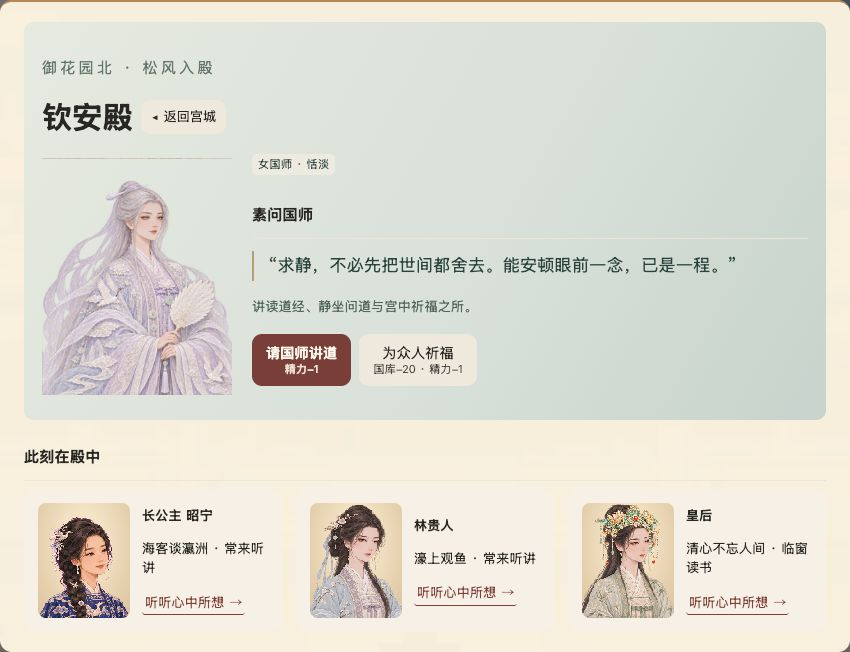
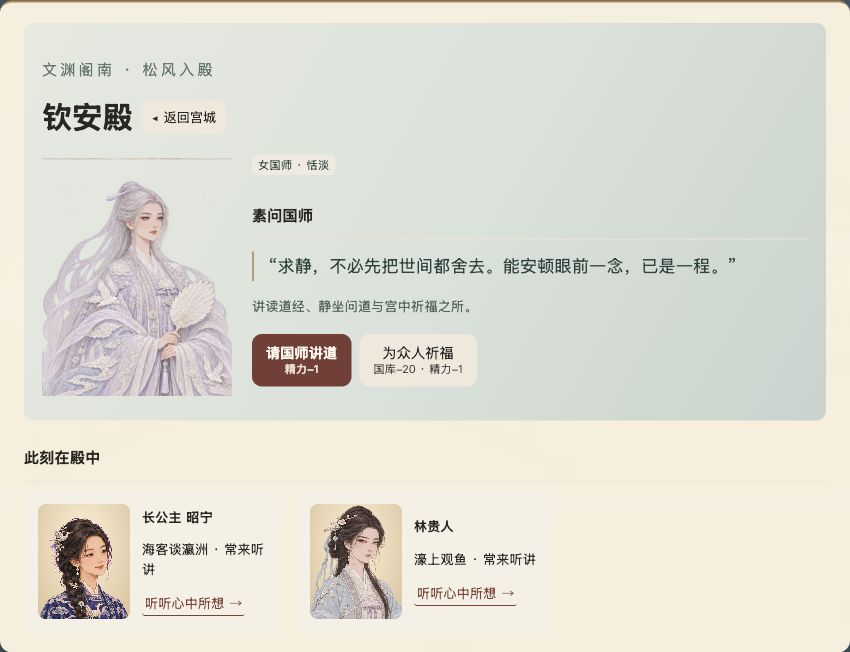
Move Qinan Hall below Wenyuan Pavilion on the palace map

diff --git a/js/dao-hall.js b/js/dao-hall.js
@@ -73,7 +73,7 @@ function daoConversation(p){
 A.daoTalk=function(id){if(modalOpen)return;const p=byId(id)||kidById(id);pushEv(daoConversation(p));};
 function viewDaoHall(){
   const master=daoMaster(),visitors=daoVisitors(),promises=S.children.filter(k=>daoEligible(k)&&k.daoPractice?.seaWish?.status==='promised');
-  return `<section class="dao-hall"><header><p>御花园北 · 松风入殿</p><h2>钦安殿${backBtn}</h2></header><div class="dao-master">${porImg(master,190)}<div><span class="tag">${master.gender}国师 · ${master.temper}</span><h3>${master.name}国师</h3><blockquote>“${master.line}”</blockquote><p class="hint">讲读道经、静坐问道与宫中祈福之所。</p><div class="acts"><button class="btn gold" onclick="A.daoTeach()">请国师讲道<small>精力−1</small></button><button class="btn" onclick="A.daoRite()">为众人祈福<small>国库−20 · 精力−1</small></button></div></div></div></section>
+  return `<section class="dao-hall"><header><p>文渊阁南 · 松风入殿</p><h2>钦安殿${backBtn}</h2></header><div class="dao-master">${porImg(master,190)}<div><span class="tag">${master.gender}国师 · ${master.temper}</span><h3>${master.name}国师</h3><blockquote>“${master.line}”</blockquote><p class="hint">讲读道经、静坐问道与宫中祈福之所。</p><div class="acts"><button class="btn gold" onclick="A.daoTeach()">请国师讲道<small>精力−1</small></button><button class="btn" onclick="A.daoRite()">为众人祈福<small>国库−20 · 精力−1</small></button></div></div></div></section>
     ${promises.map(k=>`<div class="card"><div class="grow"><strong>与${esc(k.name)}的东海之约</strong><p>已经答应带孩子去看海，可沿岸观潮、访舟人。</p><button class="btn jade" onclick="A.daoSea(${k.id})">相携赴东海<small>国库−50 · 精力−2 · 每年一次</small></button></div></div>`).join('')}
     <h3>此刻在殿中</h3>${visitors.length?`<div class="grid">${visitors.map(p=>`<button class="card portrait-card" onclick="A.daoTalk(${p.id})">${porImg(p,92)}<div class="grow"><strong>${esc(porName(p))}</strong><p>${esc(daoReading(p).title)} · ${p.daoPractice?.visits>=6?'常来听讲':'临窗读书'}</p><span class="person-link">听听心中所想 →</span></div></button>`).join('')}</div>`:'<p class="hint">此刻只有国师在整理经卷。不同性情的人会在往后的日子来访。</p>'}`;
 }

diff --git a/js/map.js b/js/map.js
@@ -6,7 +6,7 @@ const PLACES=[
  {id:'qq',n:'乾清宫',r:[80,68,40,11],d:[100,82],k:'view',v:'home',sc:'court'},
  {id:'kn',n:'坤宁宫',r:[82,50,36,11],d:[100,64],k:'palace',p:'坤宁宫',sc:'harem'},
  {id:'cj',n:'宸极殿',r:[78,86,44,12],d:[100,100],k:'place',sc:'court'},
- {id:'qa',n:'钦安殿',r:[91,12,18,11],d:[100,24],k:'place',sc:'garden'},
+ {id:'qa',n:'钦安殿',r:[164,33,26,10],d:[177,46],k:'place',sc:'garden'},
  {id:'yh',n:'御花园',r:[58,12,84,30],d:[100,46],k:'place',sc:'garden'},
  {id:'sw',n:'神武门',r:[90,2,20,6],d:[100,9],k:'view',v:'out',sc:'city'},
  {id:'wm',n:'午门',r:[90,119,20,7],d:[100,117],k:'view',v:'out',sc:'court'},
@@ -34,7 +34,7 @@ function npcHome(c){const pl=PLACES.find(p=>p.k==='palace'&&p.p===c.palace);retu
 function npcSync(){const ids=new Set();alive().filter(c=>!c.maid&&(inPalace(c)||c.cold)).forEach(c=>{ids.add(c.id);if(!NPC.has(c.id)){const h=c.cold?[23,46]:npcHome(c);NPC.set(c.id,{x:h[0],y:h[1],path:[],wait:ri(5,60),ox:ri(-3,3),where:'home'})}});[...NPC.keys()].forEach(id=>{if(!ids.has(id))NPC.delete(id)})}
 function npcRoutine(c,roll) {
   const home=npcHome(c);
-  if(daoVisitors().includes(c))return {where:'dao',dest:[100,24]};
+  if(daoVisitors().includes(c))return {where:'dao',dest:PLACES.find(p=>p.id==='qa').d};
   const hobby=consortHobby(c);
   const gardenBias=['活泼','淡泊'].includes(c.trait)||c.t2==='爱猫'||CONSORT_HOBBIES[hobby].place==='御花园';
   const studyBias=['才女','好学'].includes(c.trait)||c.t2==='好读史'||hobby==='读书';
@@ -64,7 +64,7 @@ function npcStep(){npcSync();for(const [id,n] of NPC){const c=byId(id);if(!c)con
 
 function npcRoutineText(c,n) {
   if(!n)return '在宫道上停下脚步，向你行了一礼';
-  if(n.where==='dao')return n.path.length?'沿花园小径，往钦安殿听讲去':'在钦安殿廊下翻阅经卷';
+  if(n.where==='dao')return n.path.length?'沿东侧宫道，往钦安殿听讲去':'在钦安殿廊下翻阅经卷';
   if(n.where==='library')return n.path.length?'抱着旧抄本，正往文渊阁去':'在文渊阁门前等宫人取来借阅的书';
   if(n.where==='visit'){
     const friend=byId(n.guest);

diff --git a/dev.html b/dev.html
@@ -39,8 +39,8 @@
 <script defer src="./js/princess-estates.js?v=temple-parentage-1"></script>
 <script defer src="./js/marriages.js?v=temple-parentage-1"></script>
 <script defer src="./js/seasonal-activities.js"></script>
-<script defer src="./js/dao-hall.js?v=selection-dao-1"></script>
-<script defer src="./js/map.js?v=selection-dao-1"></script>
+<script defer src="./js/dao-hall.js?v=dao-map-location-1"></script>
+<script defer src="./js/map.js?v=dao-map-location-1"></script>
 <script defer src="./js/map-guide.js?v=selection-dao-1"></script>
 <script defer src="./js/palace-duties.js?v=palace-family-music-1"></script>
 <script defer src="./js/personal-experiences-data.js?v=1"></script>

diff --git a/index.html b/index.html
@@ -37,8 +37,8 @@
 <script defer src="./js/princess-estates.js?v=temple-parentage-1"></script>
 <script defer src="./js/marriages.js?v=temple-parentage-1"></script>
 <script defer src="./js/seasonal-activities.js"></script>
-<script defer src="./js/dao-hall.js?v=selection-dao-1"></script>
-<script defer src="./js/map.js?v=selection-dao-1"></script>
+<script defer src="./js/dao-hall.js?v=dao-map-location-1"></script>
+<script defer src="./js/map.js?v=dao-map-location-1"></script>
 <script defer src="./js/map-guide.js?v=selection-dao-1"></script>
 <script defer src="./js/palace-duties.js?v=palace-family-music-1"></script>
 <script defer src="./js/personal-experiences-data.js?v=1"></script>

diff --git a/docs/qin-an-hall.md b/docs/qin-an-hall.md
@@ -2,7 +2,7 @@
 
 [返回游戏介绍](../README.md#钦安殿国师与东海之约)
 
-钦安殿是宫城地图中的可进入地点，也能从御花园前往。这里的国师与人物对话为游戏原创，不是对某一朝代宗教制度的完整复原。男女国师各两种立绘，一个存档中固定一位；来访文士、女史与女客另用独立图集。
+钦安殿在游戏地图右侧、文渊阁下方独立呈现，便于识别和点选，也能从御花园前往。这里的国师与人物对话为游戏原创，不是对某一朝代宗教制度的完整复原。男女国师各两种立绘，一个存档中固定一位；来访文士、女史与女客另用独立图集。
 
 ## 人物怎样来到这里
 
